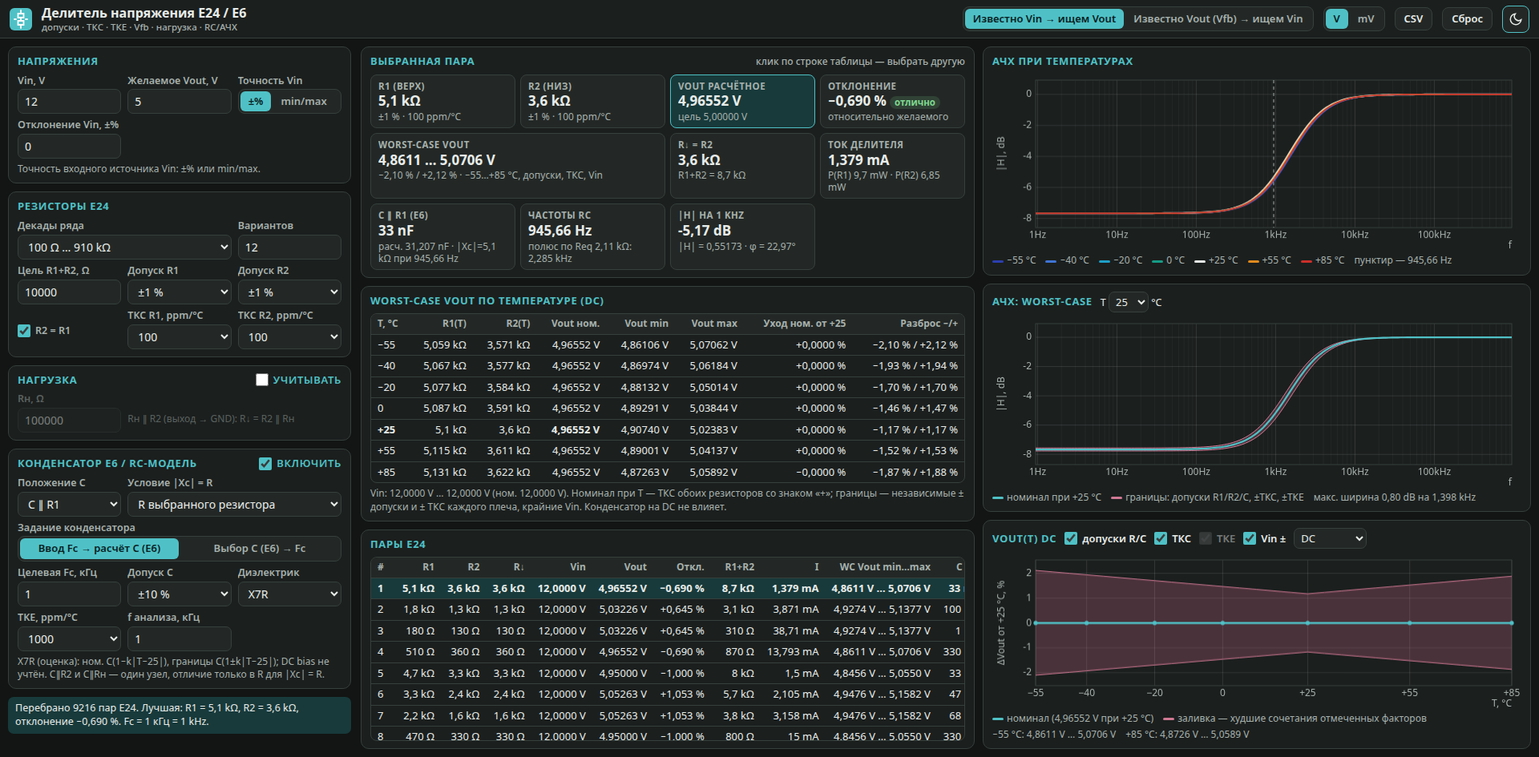
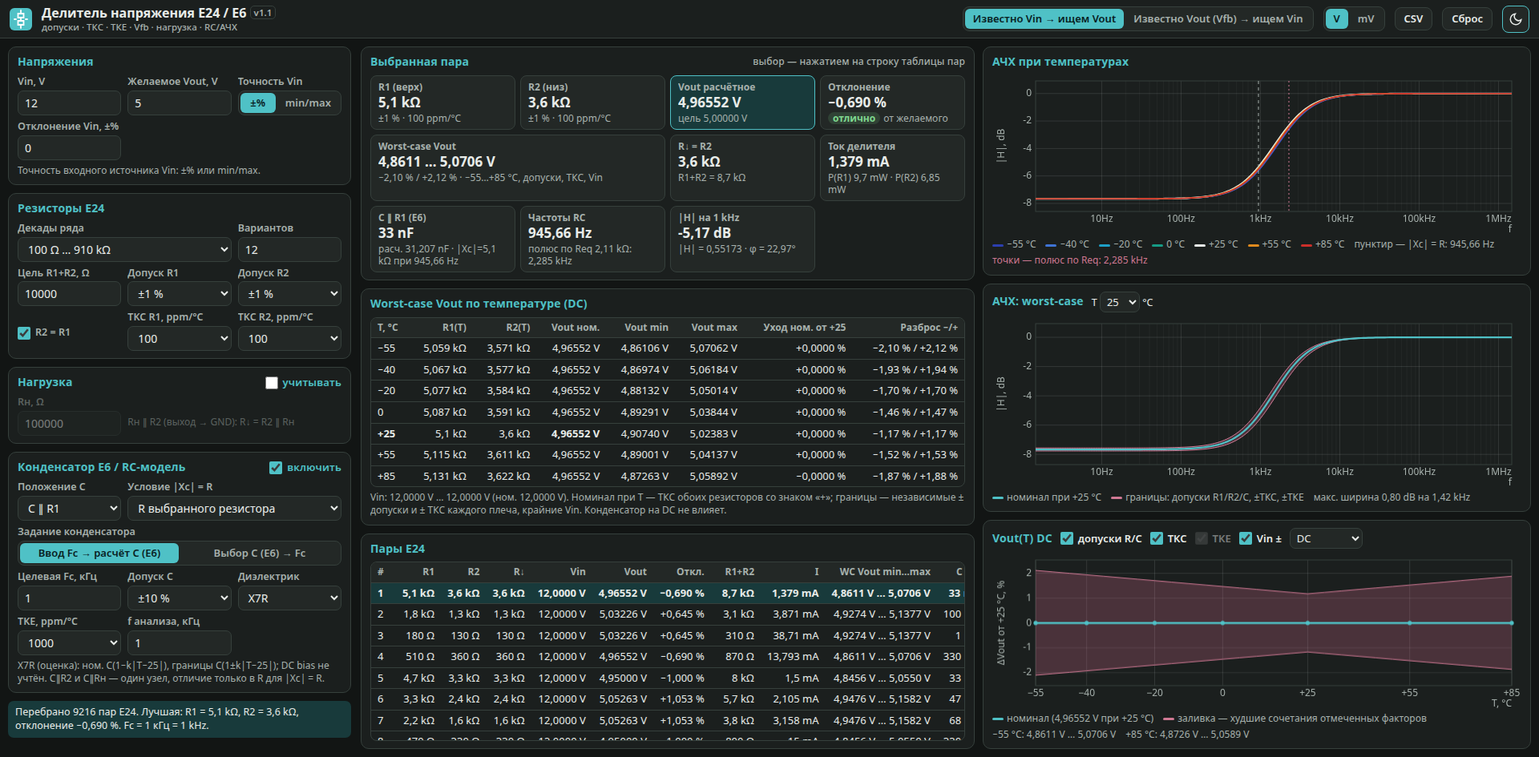
Версия 1.1: исправления мобильной версии, лицензия MIT, APK 1.1

diff --git a/index.html b/index.html
@@ -6,8 +6,8 @@
 <meta name="theme-color" content="#0b6e74">
 <title>Делитель напряжения E24/E6 — worst-case, ТКС/ТКЕ, АЧХ</title>
 <style>
-:root,[data-theme=light]{--bg:#eef0ec;--panel:#fff;--field:#f7f8f5;--ink:#161b19;--mut:#4f5955;--bd:#cfd5cf;--a:#0b6e74;--a2:#dcefee;--ok:#1e7b3a;--warn:#9a5600;--bad:#b0244f;--band:rgba(192,57,92,.20);--bandl:rgba(176,36,79,.8);--grid:rgba(30,40,36,.13);--sh:0 1px 2px rgba(20,30,25,.06),0 4px 14px rgba(20,30,25,.05)}
-[data-theme=dark]{--bg:#121514;--panel:#1b1f1e;--field:#232826;--ink:#e8ece9;--mut:#a7b1ad;--bd:#36403c;--a:#4fc1c6;--a2:#183a3b;--ok:#7fd88f;--warn:#f0b35e;--bad:#f08aa9;--band:rgba(240,120,160,.22);--bandl:rgba(240,138,169,.85);--grid:rgba(230,240,235,.12);--sh:none}
+:root,[data-theme=light]{--bg:#eef0ec;--panel:#fff;--field:#f7f8f5;--ink:#161b19;--mut:#4f5955;--bd:#cfd5cf;--a:#0b6e74;--a2:#dcefee;--ok:#1e7b3a;--warn:#9a5600;--bad:#b0244f;--band:rgba(192,57,92,.20);--bandl:rgba(176,36,79,.8);--grid:rgba(30,40,36,.13);--okbg:rgba(30,123,58,.13);--warnbg:rgba(154,86,0,.13);--badbg:rgba(176,36,79,.14);--hov:rgba(11,110,116,.07);--sh:0 1px 2px rgba(20,30,25,.06),0 4px 14px rgba(20,30,25,.05)}
+[data-theme=dark]{--bg:#121514;--panel:#1b1f1e;--field:#232826;--ink:#e8ece9;--mut:#a7b1ad;--bd:#36403c;--a:#4fc1c6;--a2:#183a3b;--ok:#7fd88f;--warn:#f0b35e;--bad:#f08aa9;--band:rgba(240,120,160,.22);--bandl:rgba(240,138,169,.85);--grid:rgba(230,240,235,.12);--okbg:rgba(127,216,143,.15);--warnbg:rgba(240,179,94,.15);--badbg:rgba(240,138,169,.18);--hov:rgba(79,193,198,.10);--sh:none}
 *{box-sizing:border-box}
 html,body{margin:0;height:100%}
 body{background:var(--bg);color:var(--ink);font:14px/1.35 "Segoe UI",system-ui,-apple-system,Roboto,"Noto Sans",sans-serif;-webkit-text-size-adjust:100%}
@@ -18,7 +18,7 @@ button,input,select{font:inherit;color:inherit}
 .logo{width:28px;height:28px;flex:none}
 .ttl{font-weight:700;font-size:16px;white-space:nowrap}
 .ttl small{display:block;font-weight:500;font-size:11.5px;color:var(--mut);line-height:1.1}
-.sp{flex:1}
+.sp{flex:1}.ver{font-size:11.5px;font-weight:600;color:var(--mut);border:1px solid var(--bd);border-radius:5px;padding:0 4px;vertical-align:2px}
 .seg{display:inline-flex;background:var(--field);border:1px solid var(--bd);border-radius:8px;padding:2px;gap:2px}
 .seg button{border:0;background:transparent;border-radius:6px;padding:4px 10px;cursor:pointer;font-size:13px;font-weight:600;color:var(--mut);white-space:nowrap}
 .seg button.on{background:var(--a);color:#fff}
@@ -32,39 +32,40 @@ button,input,select{font:inherit;color:inherit}
 .col{display:flex;flex-direction:column;gap:10px;min-height:0;min-width:0}
 .col.in{overflow:auto;padding-right:2px}
 .pn{background:var(--panel);border:1px solid var(--bd);border-radius:10px;padding:9px 11px;box-shadow:var(--sh);min-width:0}
-.pn h2{font-size:13px;margin:0 0 7px;text-transform:uppercase;letter-spacing:.05em;color:var(--a);display:flex;align-items:center;gap:8px}
-.pn h2 .sp{flex:1}
+.pn h2{font-size:14px;margin:0 0 7px;letter-spacing:.01em;color:var(--a);display:flex;align-items:center;gap:8px}
+.pn h2 .sp{flex:1}.h2hint{color:var(--mut);font-weight:500;font-size:12px}.ver{font-size:11.5px;font-weight:600;color:var(--mut);border:1px solid var(--bd);border-radius:5px;padding:0 4px;vertical-align:2px}
 .f3{display:grid;grid-template-columns:repeat(3,minmax(0,1fr));gap:6px 8px}
 .f2{display:grid;grid-template-columns:repeat(2,minmax(0,1fr));gap:6px 8px}
 .fd{display:flex;flex-direction:column;gap:2px;min-width:0}
 .fd>label,.lbl{font-size:12.5px;font-weight:600;color:var(--mut);white-space:nowrap;overflow:hidden;text-overflow:ellipsis}
 .s2{grid-column:span 2}.s3{grid-column:1/-1}
-input[type=number],select{height:31px;width:100%;border:1px solid var(--bd);border-radius:7px;background:var(--field);padding:0 8px;font-size:14px;min-width:0}
-input:focus,select:focus{outline:2px solid color-mix(in srgb,var(--a) 35%,transparent);border-color:var(--a)}
+input[type=number],input[type=text],select{height:31px;width:100%;border:1px solid var(--bd);border-radius:7px;background:var(--field);padding:0 8px;font-size:14px;min-width:0}
+input:focus,select:focus{outline:2px solid var(--a2);border-color:var(--a)}
 input:disabled,select:disabled{opacity:.45}
 .chk{display:flex;align-items:center;gap:6px;font-size:13px;font-weight:600;cursor:pointer;white-space:nowrap}
 .chk input{width:16px;height:16px;accent-color:var(--a);margin:0}
+.segf{height:31px}.segf button{flex:1}.segf{display:flex}
 .hint{font-size:12px;color:var(--mut);margin-top:5px}
 .hid{display:none!important}
 .dis{opacity:.45;pointer-events:none}
 .status{font-size:12.5px;padding:6px 9px;border-radius:7px;background:var(--a2);color:var(--ink)}
-.status.e{background:color-mix(in srgb,var(--bad) 18%,transparent)}
+.status.e{background:var(--badbg)}
 /* results */
 .cards{display:grid;grid-template-columns:repeat(4,minmax(0,1fr));gap:6px}
 .card{border:1px solid var(--bd);background:var(--field);border-radius:8px;padding:6px 9px;min-width:0}
-.card .k{font-size:11.5px;font-weight:700;letter-spacing:.04em;text-transform:uppercase;color:var(--mut);white-space:nowrap;overflow:hidden;text-overflow:ellipsis}
+.card .k{font-size:12px;font-weight:700;color:var(--mut);white-space:nowrap;overflow:hidden;text-overflow:ellipsis}
 .card .val{font-size:17px;font-weight:700;white-space:nowrap;overflow:hidden;text-overflow:ellipsis}
 .card .sub{font-size:12px;color:var(--mut);line-height:1.25;display:-webkit-box;-webkit-line-clamp:2;-webkit-box-orient:vertical;overflow:hidden}
 .card.w2{grid-column:span 2}.card.hl{border-color:var(--a);background:var(--a2)}
-.bdg{display:inline-block;padding:0 6px;border-radius:99px;font-size:11.5px;font-weight:700;margin-left:4px}
-.ok{color:var(--ok);background:color-mix(in srgb,var(--ok) 15%,transparent)}.warn{color:var(--warn);background:color-mix(in srgb,var(--warn) 15%,transparent)}.err{color:var(--bad);background:color-mix(in srgb,var(--bad) 15%,transparent)}
+.bdg{display:inline-block;padding:0 6px;border-radius:99px;font-size:12px;font-weight:700;margin-left:4px}
+.ok{color:var(--ok);background:var(--okbg)}.warn{color:var(--warn);background:var(--warnbg)}.err{color:var(--bad);background:var(--badbg)}
 .tw{overflow:auto;border:1px solid var(--bd);border-radius:8px}
 table{border-collapse:collapse;width:100%;font-size:13px}
 th,td{padding:4px 8px;text-align:right;white-space:nowrap;border-bottom:1px solid var(--bd)}
 th{position:sticky;top:0;background:var(--field);font-size:12px;color:var(--mut);font-weight:700;z-index:1}
 th:first-child,td:first-child{text-align:left}
 tbody tr:last-child td{border-bottom:0}
-#rows tr{cursor:pointer}#rows tr:hover td{background:color-mix(in srgb,var(--a) 7%,transparent)}
+#rows tr{cursor:pointer}#rows tr:hover td{background:var(--hov)}
 #rows tr.sel td{background:var(--a2);font-weight:700}
 td.t25{font-weight:700}
 .grow{flex:1;min-height:120px;display:flex;flex-direction:column}
@@ -76,10 +77,10 @@ td.t25{font-weight:700}
 .chopts{display:flex;gap:10px;flex-wrap:wrap;align-items:center;font-size:12.5px}
 .chopts select{height:26px;width:auto;font-size:13px;padding:0 4px}
 .cv{flex:1;position:relative;min-height:150px}
-.cv canvas{position:absolute;inset:0;width:100%;height:100%}
+.cv canvas{position:absolute;top:0;left:0;right:0;bottom:0;width:100%;height:100%}
 .leg{display:flex;flex-wrap:wrap;gap:4px 12px;font-size:12px;color:var(--mut);margin-top:3px}
 .leg i{display:inline-block;width:14px;height:3px;border-radius:2px;vertical-align:middle;margin-right:4px}
-.msg{position:absolute;inset:0;display:grid;place-items:center;color:var(--mut);font-size:13px;text-align:center;padding:10px}
+.msg{position:absolute;top:0;left:0;right:0;bottom:0;display:grid;place-items:center;color:var(--mut);font-size:13px;text-align:center;padding:10px}
 /* responsive */
 @media (max-width:1500px){.layout{grid-template-columns:410px minmax(0,1fr) minmax(0,1fr)}.cards{grid-template-columns:repeat(3,minmax(0,1fr))}}
 @media (max-width:1250px){
@@ -97,7 +98,7 @@ td.t25{font-weight:700}
  .col.charts{display:flex}
  .f3{grid-template-columns:repeat(2,minmax(0,1fr))}
  .s2{grid-column:span 1}.f3 .s3,.f3 .wide2{grid-column:1/-1}
- input[type=number],select{height:40px;font-size:16px}
+ input[type=number],input[type=text],select{height:40px;font-size:16px}
  .fd>label,.lbl{font-size:13px;white-space:normal}
  .chk{font-size:14px}.chk input{width:20px;height:20px}
  .cards{grid-template-columns:repeat(2,minmax(0,1fr))}
@@ -105,15 +106,24 @@ td.t25{font-weight:700}
  .ch{height:300px;min-height:300px}
  .grow{min-height:0}.grow .tw{max-height:420px}
  table{font-size:13.5px}
- .seg button{padding:6px 10px;font-size:14px}
+ .seg button{padding:6px 10px;font-size:14px;min-height:40px;min-width:44px}
+ .bar{position:static}
+ .btn,.icon{min-height:40px;min-width:44px;font-size:14px}
+ .segf{height:40px}
+ .chk{min-height:40px;padding:0 2px}
+ .chopts{gap:4px 12px}.chopts select{height:40px;font-size:15px}
+ th,td{padding:8px 8px}
+ .card .k{font-size:12.5px}.hint,.leg,.card .sub,.h2hint{font-size:13px}.bdg{font-size:12.5px}
+ .ttl small{display:none}.ver{font-size:12px}
 }
+@media (max-width:600px){.opt{display:none}.h2hint{display:none}}
 @media print{.bar .icon,.bar .btn{display:none}}
 </style>
 </head>
 <body>
 <header class="bar">
  <svg class="logo" viewBox="0 0 28 28" aria-hidden="true"><rect width="28" height="28" rx="6" fill="var(--a)"/><path d="M14 3v4M14 21v4M10.5 7h7v5h-7zM10.5 16h7v5h-7zM14 12v4M8 14h-2M20 14h2" stroke="#fff" stroke-width="1.8" fill="none" stroke-linecap="round"/></svg>
- <div class="ttl">Делитель напряжения E24 / E6<small>допуски · ТКС · ТКЕ · Vfb · нагрузка · RC/АЧХ</small></div>
+ <div class="ttl">Делитель напряжения E24 / E6 <span class="ver">v1.1</span><small>допуски · ТКС · ТКЕ · Vfb · нагрузка · RC/АЧХ</small></div>
  <div class="sp"></div>
  <div class="seg mode" id="modeSeg"><button data-v="vin" class="on"><span class="l">Известно </span>Vin → <span class="l">ищем </span>Vout</button><button data-v="vfb"><span class="l">Известно </span>Vout (Vfb) → <span class="l">ищем </span>Vin</button></div>
  <div class="seg" id="unitSeg" title="Единицы напряжения"><button data-v="V" class="on">V</button><button data-v="mV">mV</button></div>
@@ -131,7 +141,7 @@ td.t25{font-weight:700}
    <div class="fd"><label for="vin" id="lVin">Vin, V</label><input id="vin" type="number" step="0.05" min="0" value="12"></div>
    <div class="fd"><label for="vout" id="lVout">Желаемое Vout, V</label><input id="vout" type="number" step="0.05" min="0" value="5"></div>
    <div class="fd"><label class="lbl" id="lRef">Точность Vin</label>
-    <div class="seg" id="refSeg" style="height:31px"><button data-v="pct" class="on">±%</button><button data-v="lim">min/max</button></div></div>
+    <div class="seg segf" id="refSeg"><button data-v="pct" class="on">±%</button><button data-v="lim">min/max</button></div></div>
    <div class="fd" id="fRefPct"><label for="refPct" id="lRefPct">Отклонение Vin, ±%</label><input id="refPct" type="number" step="0.1" min="0" value="0"></div>
    <div class="fd hid" id="fRefMin"><label for="refMin" id="lRefMin">Vin.min, V</label><input id="refMin" type="number" step="0.05" min="0" value="11.4"></div>
    <div class="fd hid" id="fRefNom"><label for="refNom" id="lRefNom">Vin.nom, V</label><input id="refNom" type="number" step="0.05" min="0" value="12"></div>
@@ -185,7 +195,7 @@ td.t25{font-weight:700}
 
 <!-- ============ РЕЗУЛЬТАТЫ ============ -->
 <section class="col out">
- <div class="pn"><h2>Выбранная пара <span class="sp"></span><span style="text-transform:none;letter-spacing:0;color:var(--mut);font-weight:500;font-size:12px">клик по строке таблицы — выбрать другую</span></h2><div class="cards" id="cards"></div></div>
+ <div class="pn"><h2>Выбранная пара <span class="sp"></span><span class="h2hint">выбор — нажатием на строку таблицы пар</span></h2><div class="cards" id="cards"></div></div>
  <div class="pn"><h2 id="wcTitle">Worst-case по температуре</h2>
   <div class="tw"><table><thead id="tHead"></thead><tbody id="temps"></tbody></table></div>
   <div class="hint" id="wcHint"></div>
@@ -228,6 +238,9 @@ const TS=[-55,-40,-20,0,25,55,85];
 const TCOL=['#2c3fb0','#3f74d6','#1ea0c8','#169c86','INK','#e08a1e','#cc2f2a'];
 const TCC={c0g:[30],x7r:[500,1000,1500,2000]};
 const $=id=>document.getElementById(id);
+/* Сенсорные устройства: type=number в Chrome/WebView отбрасывает запятую — используем текстовое поле с цифровой клавиатурой */
+const TOUCH=window.matchMedia&&matchMedia('(pointer:coarse)').matches;
+if(TOUCH)document.querySelectorAll('input[type=number]').forEach(e=>{e.type='text';e.inputMode='decimal';e.autocomplete='off';e.spellcheck=false});
 const S={mode:'vin',unit:'V',ref:'pct',cm:'fc',selKey:null,list:[],cur:null};
 const STORE='vdiv-e24e6-v2';
 
@@ -237,10 +250,11 @@ function trim(s){return s.indexOf('.')<0?s:s.replace(/0+$/,'').replace(/\.$/,'')
 function fr(r){if(!isFinite(r))return'∞';if(r>=1e6)return dec(trim((r/1e6).toFixed(3)))+' MΩ';if(r>=1e3)return dec(trim((r/1e3).toFixed(3)))+' kΩ';return dec(trim(r.toFixed(2)))+' Ω'}
 function fcap(c){if(c>=1e-6)return dec(trim((c*1e6).toFixed(3)))+' µF';if(c>=1e-9)return dec(trim((c*1e9).toFixed(3)))+' nF';return dec(trim((c*1e12).toFixed(2)))+' pF'}
 function ffr(f){if(!isFinite(f))return'—';if(f>=1e6)return dec(trim((f/1e6).toFixed(3)))+' MHz';if(f>=1e3)return dec(trim((f/1e3).toFixed(3)))+' kHz';return dec(trim(f.toFixed(2)))+' Hz'}
-function fv(v,d){const m=S.unit==='mV'?1e3:1,n=v*m;if(d==null)d=Math.abs(n)>=1000?2:Math.abs(n)>=100?3:Math.abs(n)>=10?4:5;return dec(n.toFixed(d))+' '+S.unit}
+/* d — число знаков после запятой для значений 1…10; фактически сохраняется d+1 значащих цифр при любом порядке */
+function fv(v,d){const m=S.unit==='mV'?1e3:1,n=v*m,sig=(d==null?5:d)+1;if(!isFinite(n))return'—';const e=n===0?0:Math.floor(Math.log10(Math.abs(n)));const k=Math.max(0,Math.min(9,sig-1-e));return dec(n.toFixed(k))+' '+S.unit}
 function fp(v,d=3){return(v>=0?'+':'−')+dec(Math.abs(v).toFixed(d))+' %'}
 function fI(i){return i>=1e-3?dec(trim((i*1e3).toFixed(3)))+' mA':dec(trim((i*1e6).toFixed(2)))+' µA'}
-function fP(p){return p>=1?dec(trim(p.toFixed(3)))+' W':p>=1e-3?dec(trim((p*1e3).toFixed(2)))+' mW':dec(trim((p*1e6).toFixed(1)))+' µW'}
+function fP(p){return p>=1?dec(trim(p.toFixed(3)))+' W':p>=1e-3?dec(trim((p*1e3).toFixed(2)))+' mW':p>=1e-6?dec(trim((p*1e6).toFixed(2)))+' µW':dec(trim((p*1e9).toFixed(2)))+' nW'}
 const tS=T=>(T>0?'+':T<0?'−':'')+Math.abs(T);
 const par=(a,b)=>!isFinite(a)?b:!isFinite(b)?a:a*b/(a+b);
 
@@ -372,7 +386,7 @@ function renderCards(){
   ['R1 (верх)',fr(z.r1),`±${dec(String(x.tol1*100))} % · ${x.tcr1} ppm/°C`],
   ['R2 (низ)',fr(z.r2),`±${dec(String(x.tol2*100))} % · ${x.tcr2} ppm/°C`],
   [sName+' расчётное',fv(z.v),`цель ${fv(x.target)}`,1],
-  ['Отклонение',fp(z.e)+`<span class="bdg ${g[0]}">${g[1]}</span>`,'относительно желаемого'],
+  ['Отклонение',fp(z.e),`<span class="bdg ${g[0]}" style="margin:0 4px 0 0">${g[1]}</span>от желаемого`],
   ['Worst-case '+sName,`${fv(z.wmin,4)} … ${fv(z.wmax,4)}`.replace(/ (m?V) …/,' …'),`${fp((z.wmin/z.v-1)*100,2)} / ${fp((z.wmax/z.v-1)*100,2)} · −55…+85 °C, допуски, ТКС, ${x.mode==='vin'?'Vin':'Vfb'}`,2],
   ['R↓ = R2'+(x.loadOn?' ∥ Rн':''),fr(z.lo),`R1+R2 = ${fr(z.r1+z.r2)}`],
   ['Ток делителя',fI(z.i),`P(R1) ${fP(pr1)} · P(R2) ${fP(pr2)}`],
@@ -383,21 +397,21 @@ function renderCards(){
   cards.push(['Частоты RC',ffr(z.fx),`полюс по Req ${fr(z.req)}: ${ffr(z.fp)}`]);
   cards.push([`|H| на ${ffr(x.fan)}`,dec((20*Math.log10(mag(Hn))).toFixed(2))+' dB',`|H| = ${dec(mag(Hn).toFixed(5))} · φ = ${dec(ph(Hn).toFixed(2))}°`]);
  } else cards.push(['Kдел DC',dec(z.k.toFixed(6)),`1/K = ${dec((1/z.k).toFixed(5))}`]);
- $('cards').innerHTML=cards.map(c=>`<div class="card${c[3]===1?' hl':c[3]===2?' w2':''}"><div class="k">${c[0]}</div><div class="val">${c[1]}</div><div class="sub" title="${c[2]}">${c[2]}</div></div>`).join('');
+ $('cards').innerHTML=cards.map(c=>`<div class="card${c[3]===1?' hl':c[3]===2?' w2':''}"><div class="k">${c[0]}</div><div class="val">${c[1]}</div><div class="sub">${c[2]}</div></div>`).join('');
 }
 function renderTemps(){
  const x=S.x,z=S.cur,sName=x.mode==='vin'?'Vout':'Vin',refN=x.mode==='vin'?'Vin':'Vfb';
  $('wcTitle').textContent=`Worst-case ${sName} по температуре (DC)`;
- $('tHead').innerHTML=`<tr><th>T, °C</th><th>R1(T)</th><th>R2(T)</th><th>${sName} ном.</th><th>${sName} min</th><th>${sName} max</th><th>Уход ном. от +25</th><th>Разброс −/+</th></tr>`;
+ $('tHead').innerHTML=`<tr><th>T, °C</th><th class="opt">R1(T)</th><th class="opt">R2(T)</th><th>${sName} ном.</th><th>${sName} min</th><th>${sName} max</th><th>Уход ном. от +25</th><th>Разброс −/+</th></tr>`;
  const fl={tol:1,tcr:1,tcc:1,ref:1},n25=nominal(x,z,25,null,fl);
  S.temps=TS.map(T=>{const n=nominal(x,z,T,null,fl),[a,b]=corners(x,z,T,null,fl);return{T,r1:rT(z.r1,x.tcr1,T),r2:rT(z.r2,x.tcr2,T),n,a,b,d:(n/n25-1)*100,lo:(a/n-1)*100,hi:(b/n-1)*100}});
- $('temps').innerHTML=S.temps.map(t=>`<tr><td class="${t.T===25?'t25':''}">${tS(t.T)}</td><td>${fr(t.r1)}</td><td>${fr(t.r2)}</td><td class="${t.T===25?'t25':''}">${fv(t.n)}</td><td>${fv(t.a)}</td><td>${fv(t.b)}</td><td>${fp(t.d,4)}</td><td>${fp(t.lo,2)} / ${fp(t.hi,2)}</td></tr>`).join('');
+ $('temps').innerHTML=S.temps.map(t=>`<tr><td class="${t.T===25?'t25':''}">${tS(t.T)}</td><td class="opt">${fr(t.r1)}</td><td class="opt">${fr(t.r2)}</td><td class="${t.T===25?'t25':''}">${fv(t.n)}</td><td>${fv(t.a)}</td><td>${fv(t.b)}</td><td>${fp(t.d,4)}</td><td>${fp(t.lo,2)} / ${fp(t.hi,2)}</td></tr>`).join('');
  $('wcHint').textContent=`${refN}: ${fv(x.ref.min)} … ${fv(x.ref.max)} (ном. ${fv(x.ref.nom)}). Номинал при T — ТКС обоих резисторов со знаком «+»; границы — независимые ± допуски и ± ТКС каждого плеча, крайние ${refN}. Конденсатор на DC не влияет.`;
 }
 function renderPairs(){
  const x=S.x,sName=x.mode==='vin'?'Vout':'Vin';
- $('pHead').innerHTML=`<tr><th>#</th><th>R1</th><th>R2</th><th>R↓</th><th>Vin</th><th>Vout</th><th>Откл.</th><th>R1+R2</th><th>I</th><th>WC ${sName} min…max</th>${x.rc?'<th>C E6</th><th>f(|Xc|=R)</th>':''}</tr>`;
- $('rows').innerHTML=S.list.map((z,i)=>`<tr data-i="${i}" class="${z===S.cur?'sel':''}"><td>${i+1}</td><td>${fr(z.r1)}</td><td>${fr(z.r2)}</td><td>${fr(z.lo)}</td><td>${fv(z.vinA)}</td><td>${fv(z.voutA)}</td><td>${fp(z.e)}</td><td>${fr(z.r1+z.r2)}</td><td>${fI(z.i)}</td><td>${fv(z.wmin,4)} … ${fv(z.wmax,4)}</td>${x.rc?`<td>${fcap(z.c)}</td><td>${ffr(z.fx)}</td>`:''}</tr>`).join('');
+ $('pHead').innerHTML=`<tr><th>#</th><th>R1</th><th>R2</th><th class="opt">R↓</th><th>Vin</th><th>Vout</th><th>Откл.</th><th class="opt">R1+R2</th><th class="opt">I</th><th>WC ${sName} min…max</th>${x.rc?'<th>C E6</th><th>f(|Xc|=R)</th>':''}</tr>`;
+ $('rows').innerHTML=S.list.map((z,i)=>`<tr data-i="${i}" class="${z===S.cur?'sel':''}"><td>${i+1}</td><td>${fr(z.r1)}</td><td>${fr(z.r2)}</td><td class="opt">${fr(z.lo)}</td><td>${fv(z.vinA)}</td><td>${fv(z.voutA)}</td><td>${fp(z.e)}</td><td class="opt">${fr(z.r1+z.r2)}</td><td class="opt">${fI(z.i)}</td><td>${fv(z.wmin,4)} … ${fv(z.wmax,4)}</td>${x.rc?`<td>${fcap(z.c)}</td><td>${ffr(z.fx)}</td>`:''}</tr>`).join('');
 }
 
 /* ---------- charts ---------- */
@@ -429,7 +443,7 @@ function frame(g,w,h,o){
 function line(g,P,col,wd,dash){g.beginPath();P.forEach((p,i)=>i?g.lineTo(p[0],p[1]):g.moveTo(p[0],p[1]));g.strokeStyle=col;g.lineWidth=wd;g.setLineDash(dash||[]);g.stroke();g.setLineDash([])}
 function band(g,U,L){g.beginPath();U.forEach((p,i)=>i?g.lineTo(p[0],p[1]):g.moveTo(p[0],p[1]));for(let i=L.length-1;i>=0;i--)g.lineTo(L[i][0],L[i][1]);g.closePath();g.fillStyle=css('--band');g.fill()}
 function yr(vals,minSpan,padF=.12){let a=Math.min(...vals),b=Math.max(...vals);if(b-a<minSpan){const c=(a+b)/2;a=c-minSpan/2;b=c+minSpan/2}const p=(b-a)*padF;return[a-p,b+p]}
-function freqs(x,z){const f0=z.fx||1e3,n=160,a=Math.log10(f0)-3,b=Math.log10(f0)+3;return Array.from({length:n},(_,i)=>Math.pow(10,a+(b-a)*i/(n-1)))}
+function freqs(x,z){const n=200,f1=Math.min(z.fx||1e3,z.fp||1e3),f2=Math.max(z.fx||1e3,z.fp||1e3);let a=Math.log10(f1)-2,b=Math.log10(f2)+2;if(b-a<6){const c=(a+b)/2;a=c-3;b=c+3}if(b-a>10){const c=Math.log10(z.fp||f2);a=c-5;b=c+5}return Array.from({length:n},(_,i)=>Math.pow(10,a+(b-a)*i/(n-1)))}
 function tcol(i){return TCOL[i]==='INK'?css('--ink'):TCOL[i]}
 function drawFam(){
  const x=S.x,z=S.cur;$('mFam').classList.toggle('hid',x.rc);
@@ -437,8 +451,8 @@ function drawFam(){
  const F=freqs(x,z),D=TS.map(T=>F.map(f=>20*Math.log10(mag(H(x,rT(z.r1,x.tcr1,T),rT(z.r2,x.tcr2,T),x.rl,cNom(x,z.c,T),f))))),all=D.flat();
  const[y0,y1]=yr(all,1);const A=frame(g,w,h,{xlog:1,x0:F[0],x1:F[F.length-1],y0,y1,yl:'|H|, dB',xl:'f'});
  D.forEach((d,i)=>line(g,d.map((v,j)=>[A.X(F[j]),A.Y(v)]),tcol(i),i===4?2.2:1.6));
- line(g,[[A.X(z.fx),A.m.t],[A.X(z.fx),h-A.m.b]],css('--mut'),1,[4,4]);
- $('legFam').innerHTML=TS.map((T,i)=>`<span><i style="background:${tcol(i)}"></i>${tS(T)} °C</span>`).join('')+`<span>пунктир — ${ffr(z.fx)}</span>`;
+ line(g,[[A.X(z.fx),A.m.t],[A.X(z.fx),h-A.m.b]],css('--mut'),1,[4,4]);if(Math.abs(Math.log10(z.fp/z.fx))>.02)line(g,[[A.X(z.fp),A.m.t],[A.X(z.fp),h-A.m.b]],css('--bandl'),1,[2,3]);
+ $('legFam').innerHTML=TS.map((T,i)=>`<span><i style="background:${tcol(i)}"></i>${tS(T)} °C</span>`).join('')+`<span>пунктир — |Xc| = R: ${ffr(z.fx)}</span>`+(Math.abs(Math.log10(z.fp/z.fx))>.02?`<span style="color:${css('--bandl')}">точки — полюс по Req: ${ffr(z.fp)}</span>`:'');
 }
 function drawWc(){
  const x=S.x,z=S.cur;$('mWc').classList.toggle('hid',x.rc);
@@ -493,7 +507,7 @@ function applyLabels(){
  $('lRefPct').textContent='Отклонение '+r+', ±%';
  $('lRefMin').textContent=r+'.min, '+u;$('lRefNom').textContent=r+'.nom, '+u;$('lRefMax').textContent=r+'.max, '+u;
  const p=S.ref==='pct';$('fRefPct').classList.toggle('hid',!p);['fRefMin','fRefNom','fRefMax'].forEach(i=>$(i).classList.toggle('hid',p));
- $('refNom').value=$(vin?'vin':'vout').value;
+ $('refNom').value=$(vin?'vin':'vout').value;S.prevNom=num('refNom');
  if(!p){const n=num('refNom'),a=num('refMin'),b=num('refMax');if(!(a>0&&a<=n&&b>=n)){$('refMin').value=+(n*0.98).toPrecision(6);$('refMax').value=+(n*1.02).toPrecision(6)}}
  $('refHint').textContent=vin?'Точность входного источника Vin: ±% или min/max.':'Точность опорного Vfb: ±% или Vfb.min / nom / max из datasheet.';
  const st=u==='mV'?'50':'0.05';['vin','vout','refMin','refNom','refMax'].forEach(i=>$(i).step=st);
@@ -526,7 +540,10 @@ segInit('cSeg','cm',applyRC);
 document.querySelectorAll('input,select').forEach(el=>el.addEventListener(el.tagName==='SELECT'||el.type==='checkbox'?'change':'input',()=>{
  const id=el.id;
  if(['tol1','tol2','tcr1','tcr2','same'].includes(id))syncSame(id);
- if(id==='refNom'){$(S.mode==='vin'?'vin':'vout').value=el.value}
+ const kid=S.mode==='vin'?'vin':'vout';
+ if((id==='refNom'||id===kid)&&S.ref==='lim'){const nv=num(id),pv=S.prevNom;if(nv>0&&pv>0&&nv!==pv){['refMin','refMax'].forEach(i=>{const v=num(i);if(v>0)$(i).value=+(v*nv/pv).toPrecision(6)})}}
+ if(id==='refNom'){$(kid).value=el.value}
+ if(id==='refNom'||id===kid){const nv=num(id);if(nv>0)S.prevNom=nv}
  if(id==='vin'||id==='vout')$('refNom').value=$(S.mode==='vin'?'vin':'vout').value;
  if(['rcOn','loadOn','diel','branch'].includes(id))applyRC();
  if(['tsel','uTol','uTcr','uTcc','uRef','vtF'].includes(id)){saveState();drawAll();return}
@@ -545,7 +562,7 @@ $('csv').onclick=()=>{
  rows.push(['Выбранная пара','R1 = '+fr(S.cur.r1),'R2 = '+fr(S.cur.r2)]);
  rows.push([...$('tHead').querySelectorAll('th')].map(t=>t.textContent));
  $('temps').querySelectorAll('tr').forEach(tr=>rows.push([...tr.children].map(td=>td.textContent)));
- const txt='\ufeff'+rows.map(r=>r.map(csvCell).join(';')).join('\r\n'),name='divider-e24-'+fr(S.cur.r1).replace(/\s/g,'')+'-'+fr(S.cur.r2).replace(/\s/g,'')+'.csv';
+ const txt='\ufeff'+rows.map(r=>r.map(csvCell).join(';')).join('\r\n'),an=r=>fr(r).replace(/\s/g,'').replace(',','.').replace('MΩ','M').replace('kΩ','k').replace('Ω','R'),name='divider-e24-R1_'+an(S.cur.r1)+'-R2_'+an(S.cur.r2)+'.csv';
  if(window.AndroidBridge&&AndroidBridge.saveFile){AndroidBridge.saveFile(name,txt);return}
  const a=document.createElement('a');a.href=URL.createObjectURL(new Blob([txt],{type:'text/csv;charset=utf-8'}));a.download=name;document.body.appendChild(a);a.click();setTimeout(()=>{URL.revokeObjectURL(a.href);a.remove()},500);
 };

diff --git a/README.md b/README.md
@@ -5,8 +5,9 @@
 | | |
 |---|---|
 | **Веб-версия** | https://wadi-li.github.io/scientific-voltage-divider-e24-e6/ |
-| **Android APK** | [dist/voltage-divider-e24-e6-1.0.apk](dist/voltage-divider-e24-e6-1.0.apk) (Android 7.0+, офлайн) |
-| **Версия** | 1.0 — см. [CHANGELOG.md](CHANGELOG.md) |
+| **Android APK** | [dist/voltage-divider-e24-e6-1.1.apk](dist/voltage-divider-e24-e6-1.1.apk) (Android 7.0+, офлайн, ставится поверх 1.0) |
+| **Версия** | 1.1 — см. [CHANGELOG.md](CHANGELOG.md) и [Releases](https://github.com/wadi-li/scientific-voltage-divider-e24-e6/releases) |
+| **Лицензия** | [MIT](LICENSE) |
 
 ![Full HD, светлая тема](docs/screenshots/fullhd-light.png)
 
@@ -23,6 +24,7 @@
 - Графики: АЧХ по температурам; АЧХ worst-case с заливкой при выбранной T; искомое напряжение от температуры (относительная шкала, чекбоксы допусков, ТКС, ТКЕ, Vin/Vfb; DC или частота анализа).
 - Таблица пар E24 (клик — выбор пары), экспорт CSV (`;`, UTF-8 BOM), сохранение введённых данных.
 - Один экран Full HD; вертикальная компоновка для телефона; светлая тема по умолчанию и тёмная по переключателю.
+- На телефоне числа вводятся с цифровой клавиатуры, десятичный разделитель — запятая или точка; элементы управления не меньше 40 px по высоте.
 
 Файл `index.html` полностью автономный: без CDN и внешних шрифтов, графики — встроенный Canvas. Можно открыть локально двойным щелчком.
 
@@ -42,9 +44,10 @@ android/              исходники Android-оболочки WebView
   src/…/MainActivity.java
   res/                иконки, строки, тема
   build.sh            сборка без Gradle
-dist/                 готовые APK
+dist/                 готовые APK (последняя и предыдущие версии)
 docs/                 скриншоты и иконка
 CHANGELOG.md          история версий
+LICENSE               лицензия MIT
 ```
 
 ## Сборка Android
@@ -52,9 +55,17 @@ CHANGELOG.md          история версий
 Сборка без Gradle: `aapt2 → javac → d8 → zipalign → apksigner`. Нужны Android build-tools 34, platform android-34, JDK 17 и собственный keystore (в репозиторий не входит):
 
 ```sh
-KS=/путь/к/keystore.jks KSP=пароль VN=1.0 VC=1 ./android/build.sh
+KS=/путь/к/keystore.jks KSP=пароль VN=1.1 VC=2 ./android/build.sh
 ```
 
 Скрипт копирует `index.html` в assets и кладёт подписанный APK в `dist/`.
 
-Приложение проверено сборкой и подписью; запуск на реальном устройстве не проверялся.
+Для обновления поверх установленной версии APK должен быть подписан тем же ключом, а `VC` (versionCode) — увеличен.
+
+## Проверка
+
+Веб-версия проверена в Chromium в эмуляции телефонов 360×780, 412×915 и альбомной 844×390 (сенсорный ввод): отсутствие горизонтальной прокрутки, размеры элементов управления, ввод с запятой, переключение режимов, выбор строки, CSV, отсутствие ошибок JavaScript. APK проверен сборкой и подписью; на реальном Android-устройстве запуск не проверялся.
+
+## Лицензия
+
+[MIT](LICENSE) © 2026 Vadim Limar (wadi-li).

diff --git a/CHANGELOG.md b/CHANGELOG.md
@@ -1,5 +1,20 @@
 # История изменений
 
+## 1.1 — 2026-10-04
+
+Исправления по проверке на телефоне:
+
+- Ввод чисел с запятой: на сенсорных устройствах поле `type=number` отбрасывало запятую (`1,25` превращалось в `125`). Теперь используется текстовое поле с цифровой клавиатурой; принимаются и запятая, и точка.
+- Режим min/max: при изменении номинала Vin/Vfb границы min/max пересчитываются пропорционально, а не остаются старыми с ошибкой «min ≤ nom ≤ max».
+- Убран верхний регистр заголовков и подписей карточек: он искажал единицы (`kHz` → `KHZ`, `Rн` → `RН`).
+- Малые напряжения выводятся с постоянным числом значащих цифр (было `0,0014 … 0,0015 V`), мощность — до нВт.
+- Графики АЧХ: диапазон частот охватывает и точку |Xc| = R, и полюс по Req (при C ∥ Rн полюс уходил за край графика); полюс отмечен отдельной линией.
+- Карточка «Отклонение»: значок оценки перенесён в подпись, значение не обрезается.
+- Телефон: элементы управления не меньше 40 px, шапка не закреплена и не занимает экран, на ширине до 600 px скрыты второстепенные столбцы таблиц, увеличены мелкие подписи.
+- Совместимость со старыми WebView: убраны `color-mix()` и `inset`.
+- Имя CSV-файла только латиницей и цифрами (`divider-e24-R1_5.1k-R2_3.6k.csv`).
+- Номер версии в шапке; Android versionCode 2.
+
 ## 1.0 — 2026-10-03
 
 - Объединённая версия калькулятора: режимы Vin → Vout и Vout (Vfb) → Vin, V/mV, точность Vin/Vfb (±% или min/nom/max).
